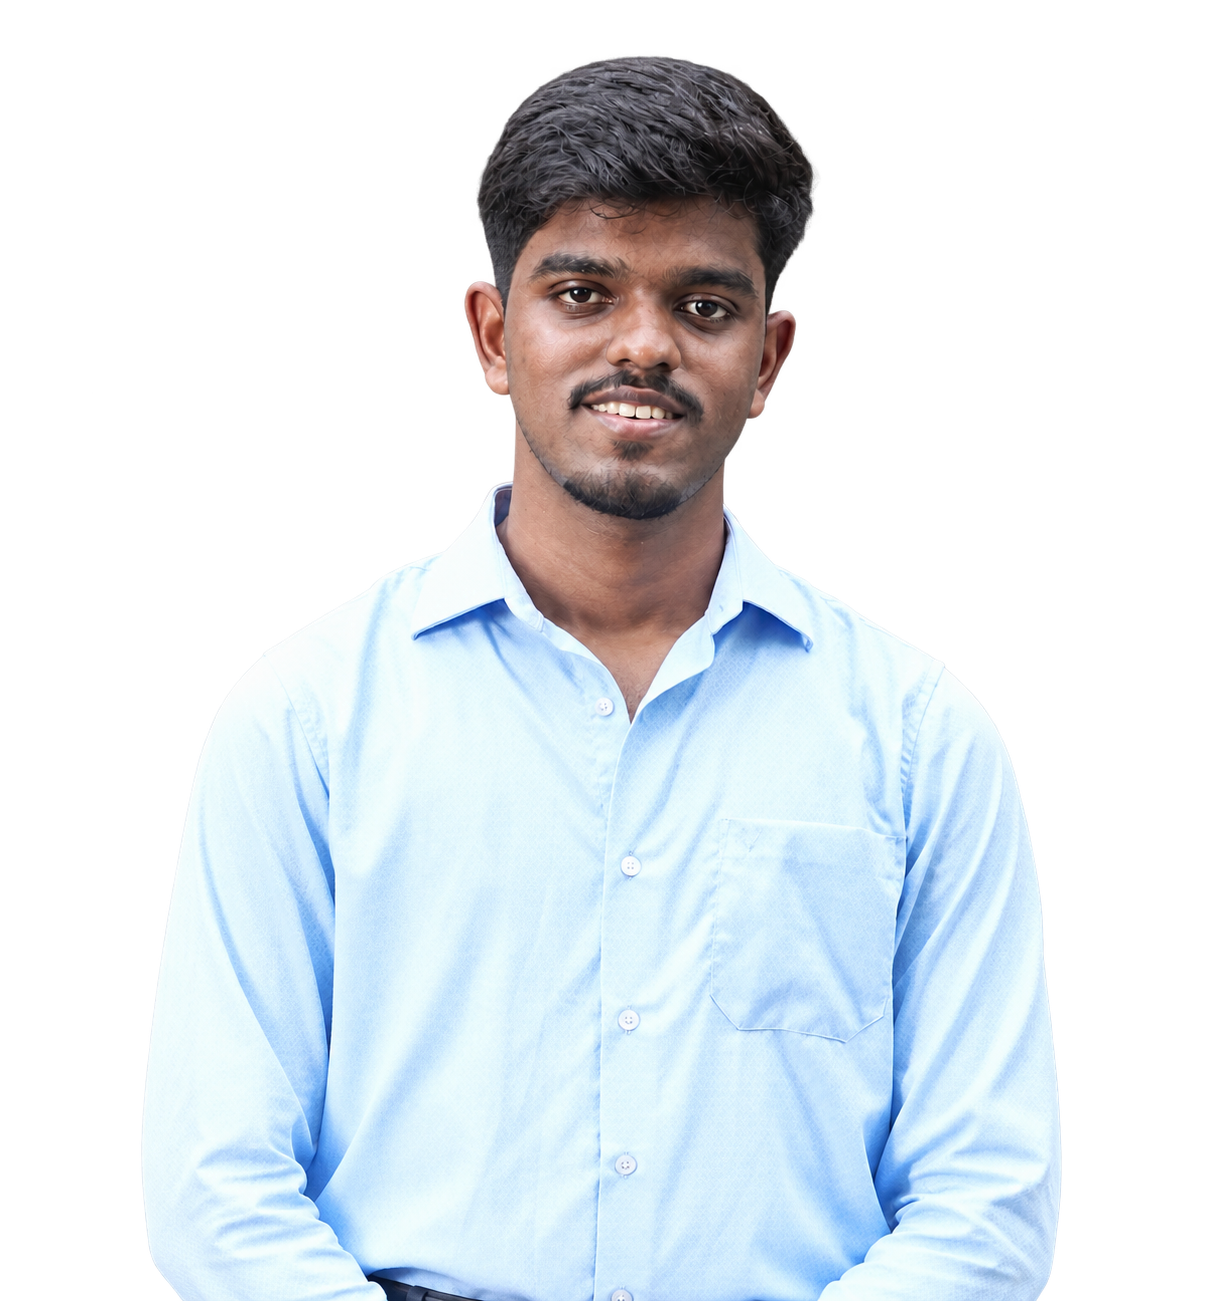
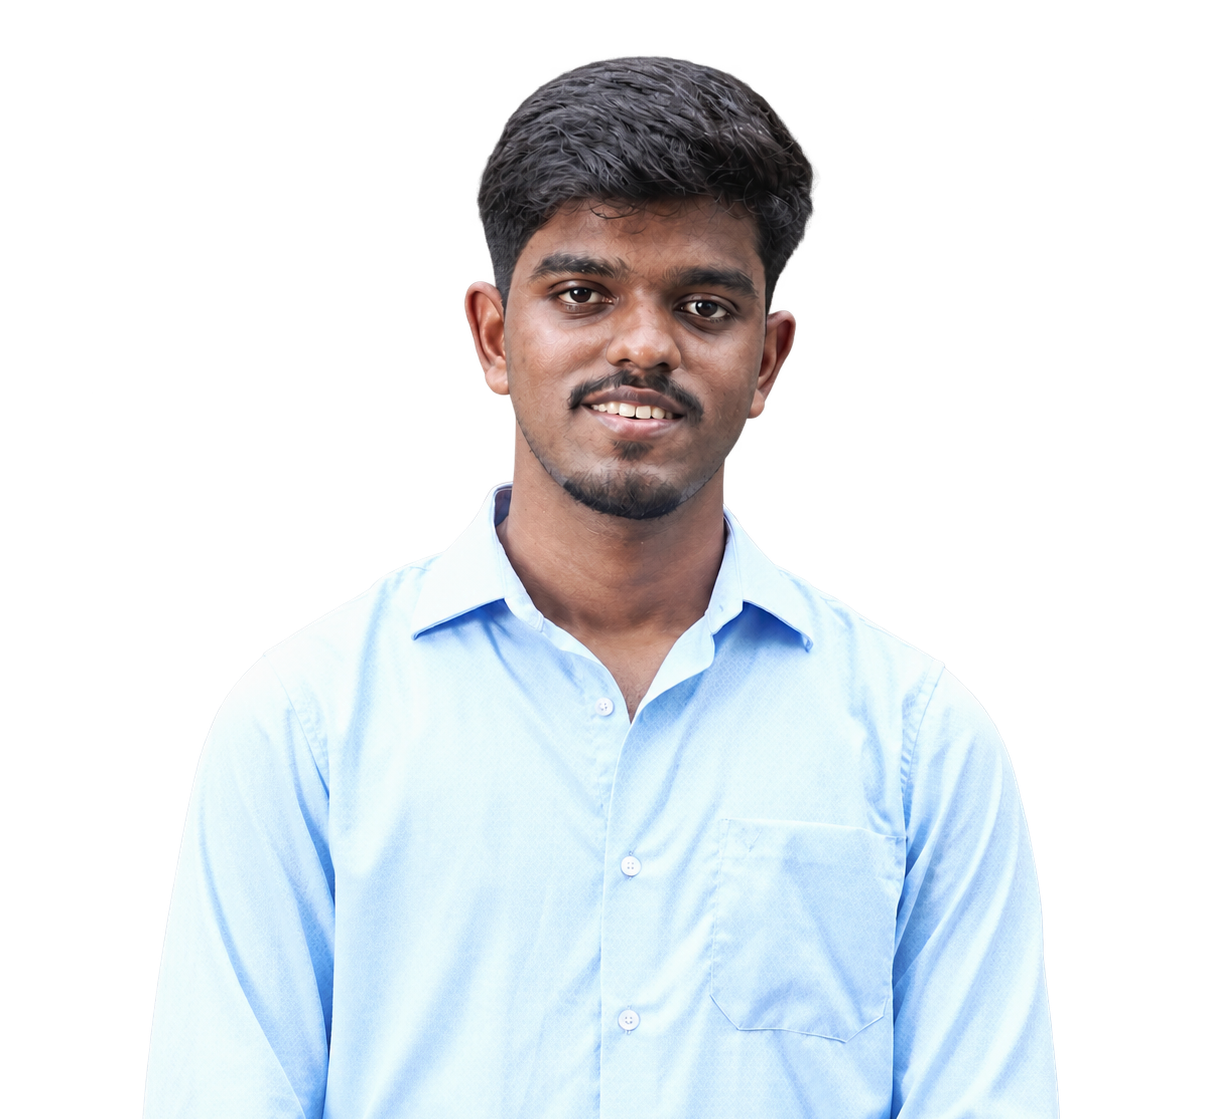
feat: redesign initial complete

Changed region(s): [[0.153, 0.0304, 0.8875, 1.0]]

diff --git a/REDESIGN_BRIEF.md b/REDESIGN_BRIEF.md
@@ -1,0 +1,124 @@
+# Portfolio Redesign Brief (for Claude Code)
+
+You are redesigning my entire personal portfolio website AND updating its content. Read this whole file before touching code.
+
+## 0. Ground rules
+- Stack stays: **Vite + React + Tailwind**. Do not migrate frameworks. Check which Tailwind version is installed (v3 vs v4) and use that version's config style.
+- Work on a new git branch `redesign`. Commit in logical steps.
+- First, inspect the current repo: read the existing components, any data/content already in the site, and my current `package.json`. Keep any content that is still accurate (links, bio wording I clearly wrote myself); replace everything visual.
+- Do NOT invent facts, metrics, links or dates. Where I haven't given a detail, leave a clearly marked `// TODO(jeffrey):` in the data file and render the section gracefully without it. Never write fake numbers like "improved performance by 40%".
+- Reference image: `reference/alex-zenkins.png` (I will place it in the repo). Open and study it before designing. It is a **style reference only**. Do not copy its text, layout 1:1, pricing section, or blog section.
+- No Three.js, no WebGL, no heavy video/3D. Light motion only (Framer Motion). Target Lighthouse performance 90+ on mobile.
+- Must look professional and editorial, NOT like generic AI portfolio slop: no purple/blue gradients, no glassmorphism cards, no emoji in headings, no "Hi, I'm X 👋", no grid of identical rounded cards.
+
+## 1. Design direction (match the reference image)
+Warm editorial look: **cream bands alternating with black bands**, one vivid orange-red accent, huge bold grotesk headings, tiny underlined accent labels, hairline dividers.
+
+**Palette (tune by eye against the reference image):**
+- cream background: `#FBF7EE`
+- ink / black band: `#0B0B0B`
+- text on cream: `#0B0B0B`; text on black: `#F5F1E8`; muted: `#6B665C` (cream) / `#9A958A` (black)
+- accent orange-red: `#E8390E`
+- hairlines: `rgba(11,11,11,.15)` on cream, `rgba(245,241,232,.18)` on black
+Define these as Tailwind theme tokens (`cream`, `ink`, `accent`, etc.). No other accent colors. No gradients.
+
+**Typography (Google Fonts, self-host or preconnect):**
+- Display + headings: **Inter Tight** 700/800, tight tracking (-0.03em), tight line-height (~0.95) for the hero name
+- Body: **Inter** 400/500
+- Labels, dates, tags: **JetBrains Mono** 400/500, small, uppercase or lowercase with an underline in accent color (like "Technical Focus" in the reference)
+- Hero name is very large (clamp ~56px to 140px), set in the accent color, two stacked lines like the reference.
+
+**Layout/feel:**
+- Max content width ~1200px, generous whitespace, strict alignment to a 12-col grid.
+- Sections separated by full-bleed color bands (cream / ink), not by cards with shadows.
+- Hairline borders instead of shadows. Corner radius mostly 0 to 4px. Buttons: small, rectangular, black with cream text; accent button for primary CTA.
+- Sticky slim top nav: logo mark (my initials, stacked, like the reference), links (Work, Achievements, Experience, Contact), and a black "Get in touch" button.
+
+## 2. Page structure (single page, smooth anchor scroll)
+1. **Hero (split):** left cream panel with name (accent color, huge), 2-3 line intro, and a small grid of tech icons (monochrome, no brand colors). Right panel: solid accent-color block with my photo (cutout or cropped portrait, `public/me.jpg`; use a neutral placeholder and a TODO if the file is missing). Nav sits over the accent panel like the reference. Collapse to stacked on mobile.
+2. **What I build (black band):** small underlined accent label "Technical Focus", one intro sentence, then an **accordion list** with big row titles and an arrow icon that rotates. Opening a row reveals a short description plus a small image or stack chips (animate height with Framer Motion). Rows:
+   - Agentic AI systems
+   - Full-stack web
+   - Mobile apps (React Native / Flutter)
+   - Backend, data and DevOps
+3. **Selected work (cream):** label "Projects I have built". A **numbered, editorial project list/grid** (not identical cards): each entry shows number, title, year, category, one-line description, stack tags, and links (GitHub / live). Make the 2-3 flagship projects visually larger. Hover: subtle accent underline or arrow shift. Optional: click expands a detail panel or modal with problem / approach / stack / outcome.
+4. **Achievements (black band):** label "Hackathons and recognition". A list with a status tag per row: `WINNER`, `3RD PLACE`, `FINALIST`, `TOP 5`, `PARTICIPANT`. Winning or top-placing rows get the accent-colored tag; others are outlined. Each row: event, organizer or college, year, result, one line on what I built.
+5. **Experience (cream):** vertical timeline. Role, company, location, dates in mono, 2-4 bullet points.
+6. **Education + skills (cream or small black strip):** degree, CGPA, board results; skills grouped (Languages / Frameworks / Data / Tools), shown as plain text lists or small outlined chips, not a skill-bar chart.
+7. **Contact footer (black):** a huge "Let's build something." heading, email as a big link, social icons (GitHub, LinkedIn, X), small legal line like the reference.
+
+Skip the pricing and blog sections from the reference image.
+
+## 3. Motion and interaction (keep it light)
+- Framer Motion only. Scroll-reveal fade/translate-up (once), accordion height animation, hover micro-interactions on rows/links.
+- Respect `prefers-reduced-motion` (disable the reveal animations).
+- Optional signature detail if time allows: a **Cmd/Ctrl+K command palette** to jump to sections and projects. Keep it small and lazy-loaded.
+
+## 4. Code organization (so I can update content later without touching components)
+Create `src/data/` with typed files and make all components read from them:
+- `profile.ts` (name, tagline, bio, email, links, location)
+- `projects.ts`
+- `achievements.ts`
+- `experience.ts`
+- `education.ts`
+- `skills.ts`
+Components live in `src/components/` (Nav, Hero, Focus, Projects, Achievements, Experience, Education, Contact, ui/ for shared pieces). Add a short `README` section explaining "how to add a project / achievement".
+
+## 5. Quality bar
+- Fully responsive (360px to 1440px+). Test mobile layouts of hero, accordion and timeline.
+- Accessible: semantic headings, accordion uses `button` with `aria-expanded`, visible focus states, color contrast AA on both band colors (check the accent on cream and on black; adjust the accent slightly if it fails for small text).
+- SEO basics: title, meta description, Open Graph tags, favicon (my initials), `lang="en"`.
+- Lazy-load images, set explicit width/height, preload the display font.
+- Run `npm run build` and fix all errors and warnings before finishing. Then run the dev server, check each section in a browser screenshot at desktop and mobile widths, and fix visual issues.
+
+## 6. My content (use this; mark anything missing as TODO)
+
+**Profile**
+- Name: Jeffrey Solomon M
+- Based in Chennai, India
+- B.Tech, Computer Science and Engineering, SRM Institute of Science and Technology, expected 2028, CGPA 9.16
+- Looking for: software developer / agentic AI internships at product and AI startups
+- Email: jeffreysolomon.official@gmail.com
+- GitHub and LinkedIn: username `jeffreysolomon123`
+- X: @jeffreysolomon_
+- Existing portfolio URL: jeffreysolomon.vercel.app
+- Write the hero intro in first person, plain and confident, 2-3 lines: a third-year CS student who builds full-stack, mobile and agentic AI systems and wins hackathons. Draft it and I will edit.
+
+**Experience**
+1. SDE Intern, MedXAI Innovation, Chennai, May to Sep 2026. Led coding for a 5-member team on a BLE smart ring app tracking 10 vitals in real time; Room DB + Supabase sync; foreground service supporting 150+ sport workouts.
+2. Software Developer Intern, Selsons Software Solutions, Chennai, Dec 2025 to Jan 2026. Built a React Native heavy-vehicle rental app and a real-time internal chat web app.
+
+**Achievements and hackathons**
+- **Acentra Health x HackForge.ai, "Build to Care" 2026:** Top 5 finalist among 300+ teams at the grand finale. I led Team Cipher (4 members). Ranked #1 of 50+ teams in the preliminary codathon (background job processor with retries, dead-letter storage and a job status dashboard in .NET), then built **ClaimShield Nexus** for the final (healthcare fraud/waste/abuse detection; added Next-Best-Evidence engine, Compromised Member ID Radar with a member confirmation loop, and Phoenix Provider Detector). Final was a 24-hour build.
+- **Kanini x Pragyan Hackathon, NIT Trichy:** Finalist, Top 10 of 115+ teams. TODO(jeffrey): what I built.
+- **Hackinfinity 2025, SSN College of Engineering:** 3rd place, for SafarX.
+- TODO(jeffrey): any other hackathons I only participated in; list them with the `PARTICIPANT` tag.
+
+**Projects** (flagships first)
+1. **ClaimShield Nexus** (2026): healthcare payer fraud/waste/abuse detection platform built at Build to Care. Details above. TODO(jeffrey): stack, repo link.
+2. **Anbaram** (2026): donation-drive management app suite for the Chengalpattu District Administration, Tamil Nadu ("The Wall of Kindness"). Presented to the District Collector. Flutter mobile app with roles for Collection Point and Distribution Center officers, plus a React dashboard for the Collector's office. Supabase (PostgreSQL) backend, Cloudinary for images, weight-based donation logging (Clothes, Blankets, Stationery, Books), admin approval for officer sign-up, hybrid collection-cycle triggers. Being published to the Play Store. TODO(jeffrey): confirm status and any live link.
+3. **UpgradeGuard** (2026, in progress): multi-agent dependency-upgrade risk assessor. Given outdated npm dependencies, agents parse changelogs, analyze usage via AST and match risks to decide whether an upgrade will break the codebase. Python, LangGraph, Groq API. Plan: UI that accepts a GitHub URL. Mark as "In progress". TODO(jeffrey): repo link.
+4. **SafarX** (2025): tourist safety app with Isolation Forest anomaly detection; React Native + Supabase; 3rd place at Hackinfinity 2025.
+5. **MedXAI smart ring app** (2026): from the internship above. TODO(jeffrey): confirm what I can publicly show.
+6. **RAG Q&A app:** Python app that answers questions from a Chroma vector database using HuggingFace embeddings and the OpenRouter API.
+7. **MNIST Digit Finder:** full-stack handwritten digit recognition; CNN trained on MNIST; draw a digit on a browser canvas and the model predicts it. github.com/jeffreysolomon123/MNIST-Digit-Finder-using-CNN
+8. **Socket-Talk:** real-time chat app, MERN + Socket.IO.
+9. **Heavy-vehicle rental app** (React Native) and **internal real-time chat web app** (from the Selsons internship).
+
+**Skills**
+- Languages: Java, Python, C, C++, JavaScript, TypeScript, SQL
+- Frameworks and libraries: FastAPI, Express, Node.js, React, Next.js, React Native, Flutter
+- Databases and infra: MongoDB, PostgreSQL, Supabase, Docker
+- AI: LangGraph, RAG (Chroma, HuggingFace embeddings), Groq and OpenRouter APIs
+
+**Education**
+- B.Tech CSE, SRM Institute of Science and Technology, 2028 (expected), CGPA 9.16
+- 12th: BVM Global, Perungudi, Chennai (CBSE), 88.8%, 2024
+- 10th: St. Michael's Academy, Adyar, Chennai (ICSE), 94%, 2022
+
+## 7. Deliverable
+1. The redesigned site on the `redesign` branch, building cleanly.
+2. A short summary of: what you changed, what content you migrated from the old site, and a list of every `TODO(jeffrey)` I still need to fill in (photo, links, missing details).
+3. Do not deploy. I will review locally first.
+
+Reference sites for feel (style only): Porteo (Framer template), FORMHAUS Brutalist Red and Swapnil's Bold Portfolio (Superdesign prompts), and the attached reference image.
